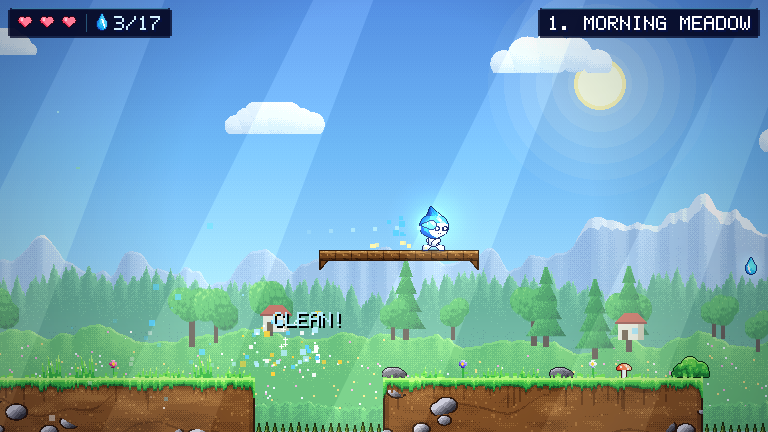
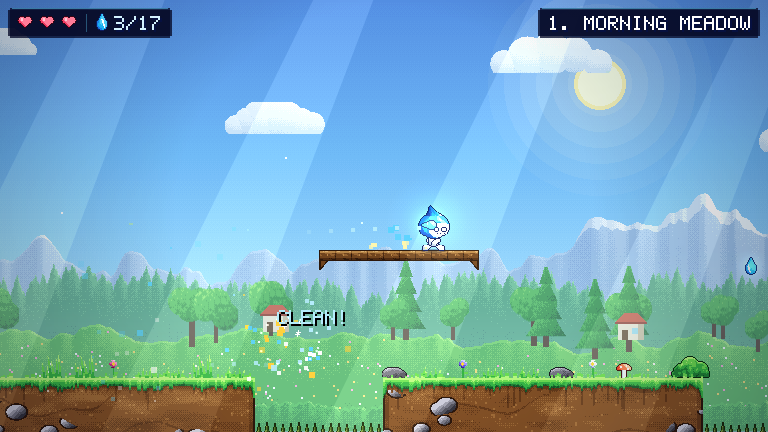
fix: redraw Pichonkun's face with pixel-exact eyes and mouth
The eyes and mouth were painted inside the head's squash-and-stretch space,
so they warped between frames and were clipped by the head outline. They are
now stamped as fixed pixel shapes that move as one unit, on a slightly wider
head. Raised arms no longer cover the face. Bumps version to 1.1.1.

diff --git a/js/sprites.js b/js/sprites.js
@@ -84,7 +84,7 @@ const OUTL = { navy: [13, 27, 94], dark: [16, 12, 26] };
     const W = 50, H = 56, base = 53, cx = 24;
     const sq = o.sq || 0, bob = o.bob || 0, lean = o.lean || 0, tipLen = o.tip || 20.5;
     const sxs = 1 + sq * 0.13, sys = 1 - sq * 0.13;
-    const R = 13;
+    const R = 13, WIDE = 1.1;
     const hy = base - 13 - R * sys + bob + (o.headY || 0); // head centre
     const legs = o.legs || [[0, 0], [0, 0]];
     const arms = o.arms || [0.25, -0.25];
@@ -101,29 +101,12 @@ const OUTL = { navy: [13, 27, 94], dark: [16, 12, 26] };
 
     // head: a round droplet with a small soft tip (smooth union), in squash space
     const hshape = (X, Y) => S.sunion(S.circle(X, Y, 0, 0, R), S.cone(X, Y, 0, -7.5, 7, lean, -tipLen, 1.1), 3.5);
-    const hsdf = (x, y) => hshape((x - cx) / sxs, (y - hy) / sys) * Math.min(sxs, sys);
+    const hsdf = (x, y) => hshape((x - cx) / (sxs * WIDE), (y - hy) / sys) * Math.min(sxs, sys);
     const head = part(W, H, hsdf, RAMPS.water, (x, y, d) => {
-      const X = (x - cx) / sxs, Y = (y - hy) / sys;
-      // ---- face patch (lower right)
+      const X = (x - cx) / (sxs * WIDE), Y = (y - hy) / sys;
+      // ---- face patch (lower right); features are stamped on afterwards
       const fd = S.ellipse(X, Y, 5.8, 4.8, 10.4, 8.4);
       if (fd < 0) {
-        for (const ex of [3.2, 10.2]) {
-          const dx = X - ex, dy = Y - 2.6, de = Math.hypot(dx, dy);
-          if (eyes === 'open' && de < 2.7) return de > 1.5 ? N : [255, 255, 255];
-          if (eyes === 'wide' && de < 3.1) return de > 1.8 ? N : [255, 255, 255];
-          if (eyes === 'blink' && Math.abs(dy - 0.4) < 0.6 && Math.abs(dx) < 2.6) return N;
-          if (eyes === 'happy' && Math.abs(de - 2.1) < 0.62 && dy < 0.2) return N;
-          if (eyes === 'hurt' && Math.abs(Math.abs(dx) - Math.abs(dy)) < 0.7 && Math.max(Math.abs(dx), Math.abs(dy)) < 2.6) return N;
-        }
-        if (o.mouth === 'open') {
-          const md = S.ellipse(X, Y, 6.7, 8.4, 1.9, 1.7);
-          if (md < 0) return md > -0.75 ? N : [255, 150, 170];
-        } else {
-          // cat mouth "w": two little bowls under the eyes' midpoint
-          const mx = Math.abs(X - 6.7);
-          if (mx < 2.4 && Math.abs(Y - (7.4 + 1.1 * Math.sin(mx / 2.4 * Math.PI))) < 0.55) return N;
-        }
-        if (S.ellipse(X, Y, 0.4, 6.4, 1.7, 1.0) < 0 || S.ellipse(X, Y, 12.6, 6.0, 1.2, 1.0) < 0) return [255, 204, 218]; // blush
         if (fd > -1.5 && Y > 6.5) return [208, 230, 246];
         if (d > -2.2 && Y > 5) return [226, 240, 250];
         return [255, 255, 255];
@@ -136,9 +119,29 @@ const OUTL = { navy: [13, 27, 94], dark: [16, 12, 26] };
       const ang = Math.atan2(Y, X);
       if (Y > -11 && d < -2.4 && d > -5.4 && ang > -1.3 && ang < -0.3) t = 0.84;          // glossy streak
       if (Y > -11 && d < -3 && d > -4.6 && ang > -1.05 && ang < -0.7) t = 1;
-      if (S.circle(X, Y, -5.5, -3.5, 1.2) < 0) t += 0.17;                                // a bubble
       return clamp(t);
     }, N, 0);
+
+    // ---- face: hand-placed pixel stamps, moved as one rigid unit so squash
+    // and stretch never deform the eyes or mouth
+    const fg = head.getContext('2d');
+    const fx = Math.round(cx - 1 + (sxs - 1) * 5), fy = Math.round(hy + 3 * sys);
+    const stamp = (rows, x, y) => rows.forEach((r, j) => [...r].forEach((ch, i) => {
+      if (ch === '.') return;
+      fg.fillStyle = ch === '#' ? GFX.css(N) : ch === 'p' ? '#ff96aa' : '#ffffff';
+      fg.fillRect(x + i, y + j, 1, 1);
+    }));
+    const EYES = {
+      open: ['.###.', '#www#', '#www#', '#www#', '.###.'],
+      wide: ['.###.', '#www#', '#www#', '#www#', '#www#', '.###.'],
+      blink: ['.....', '.....', '#####', '.....', '.....'],
+      happy: ['.....', '.###.', '#...#', '.....', '.....'],
+      hurt: ['#...#', '.#.#.', '..#..', '.#.#.', '#...#'],
+    }[eyes];
+    const ey = fy - (eyes === 'wide' ? 3 : 2);
+    stamp(EYES, fx + 1, ey); stamp(EYES, fx + 8, ey);
+    if (o.mouth === 'open') stamp(['.###.', '#ppp#', '#ppp#', '.###.'], fx + 5, fy + 4);
+    else stamp(['#..#..#', '.##.##.'], fx + 4, fy + 4);
 
     return mkSpr(stack(mkArm(-1, arms[1]), mkLeg(-1, legs[1]), mkLeg(1, legs[0]), body, head, mkArm(1, arms[0])), 1.5);
   }
@@ -154,11 +157,11 @@ const OUTL = { navy: [13, 27, 94], dark: [16, 12, 26] };
       const leg = (ph) => [Math.cos(ph) * 4.6, Math.max(0, Math.sin(ph)) * 3.6];
       return pichon({ legs: [leg(p), leg(p + Math.PI)], arms: [Math.cos(p + Math.PI) * 1.0, Math.cos(p) * 1.0], bob: -Math.abs(Math.sin(p)) * 1.6, lean: -3 - Math.sin(p * 2) * 0.8, sq: Math.sin(p * 2) * 0.1 });
     });
-    SPR.pichon_jump = pichon({ sq: -0.42, legs: [[-1.5, 1.2], [-3, 0.2]], arms: [2.3, -2.4], lean: -1.5, tip: 21, eyes: 'open' });
-    SPR.pichon_fall = pichon({ sq: -0.12, legs: [[2.4, 1.5], [-2.6, 1.2]], arms: [2.75, -2.75], lean: 1, tip: 22.5, eyes: 'wide' });
+    SPR.pichon_jump = pichon({ sq: -0.42, legs: [[-1.5, 1.2], [-3, 0.2]], arms: [1.75, -1.8], lean: -1.5, tip: 21, eyes: 'open' });
+    SPR.pichon_fall = pichon({ sq: -0.12, legs: [[2.4, 1.5], [-2.6, 1.2]], arms: [1.95, -1.95], lean: 1, tip: 22.5, eyes: 'wide' });
     SPR.pichon_land = pichon({ sq: 0.75, legs: [[2.6, 0], [-2.6, 0]], arms: [1.3, -1.3], tip: 17, headY: 1 });
-    SPR.pichon_hurt = pichon({ sq: 0.2, legs: [[2, 2], [-3, 1]], arms: [2.6, -2.2], eyes: 'hurt', mouth: 'open', lean: -3 });
-    SPR.pichon_happy = pichon({ sq: -0.25, legs: [[1.5, 0], [-1.5, 0]], arms: [2.8, -2.8], eyes: 'happy', mouth: 'open' });
+    SPR.pichon_hurt = pichon({ sq: 0.2, legs: [[2, 2], [-3, 1]], arms: [1.9, -1.7], eyes: 'hurt', mouth: 'open', lean: -3 });
+    SPR.pichon_happy = pichon({ sq: -0.25, legs: [[1.5, 0], [-1.5, 0]], arms: [2.0, -2.0], eyes: 'happy', mouth: 'open' });
     SPR.pichon_shoot = pichon({ arms: [1.55, -0.5], sq: 0.05, lean: -1 });
     SPR.pichon_white = whiteVersion(SPR.pichon_idle[0]);
   }

diff --git a/js/game.js b/js/game.js
@@ -2,7 +2,7 @@
 'use strict';
 const VIEW_W = 384, VIEW_H = 216, RES = 2;
 const SAVE_KEY = 'pichonkun_save_v1';
-const GAME_VERSION = '1.1.0';
+const GAME_VERSION = '1.1.1';
 
 // ================================================================== INPUT
 const Input = (() => {

diff --git a/CHANGELOG.md b/CHANGELOG.md
@@ -7,6 +7,16 @@ and this project adheres to [Semantic Versioning](https://semver.org/spec/v2.0.0
 
 ## [Unreleased]
 
+## [1.1.1] - 2026-11-13
+
+### Fixed
+
+- Pichonkun's face looked distorted: the eyes and mouth were warped by the
+  squash-and-stretch animation and clipped by the edge of the head. They are
+  now hand-placed pixel shapes (round ring eyes, cat mouth) that move as one
+  piece, on a slightly wider, rounder head closer to the original design.
+- Raised arms no longer cover the face in the jump, fall, hurt and happy poses.
+
 ## [1.1.0] - 2026-11-12
 
 A complete graphics overhaul. Gameplay, levels and saves are unchanged.
@@ -67,6 +77,7 @@ First public release. Play it at https://iiogurt.github.io/Pichonkun-platformer/
 - Tooling: ESLint, a level-data validator, a headless Chrome smoke test and a screenshot generator.
 - GitHub Actions for CI, GitHub Pages deployment and tagged releases.
 
-[Unreleased]: https://github.com/iiogurt/Pichonkun-platformer/compare/v1.1.0...HEAD
+[Unreleased]: https://github.com/iiogurt/Pichonkun-platformer/compare/v1.1.1...HEAD
+[1.1.1]: https://github.com/iiogurt/Pichonkun-platformer/compare/v1.1.0...v1.1.1
 [1.1.0]: https://github.com/iiogurt/Pichonkun-platformer/compare/v1.0.0...v1.1.0
 [1.0.0]: https://github.com/iiogurt/Pichonkun-platformer/releases/tag/v1.0.0
